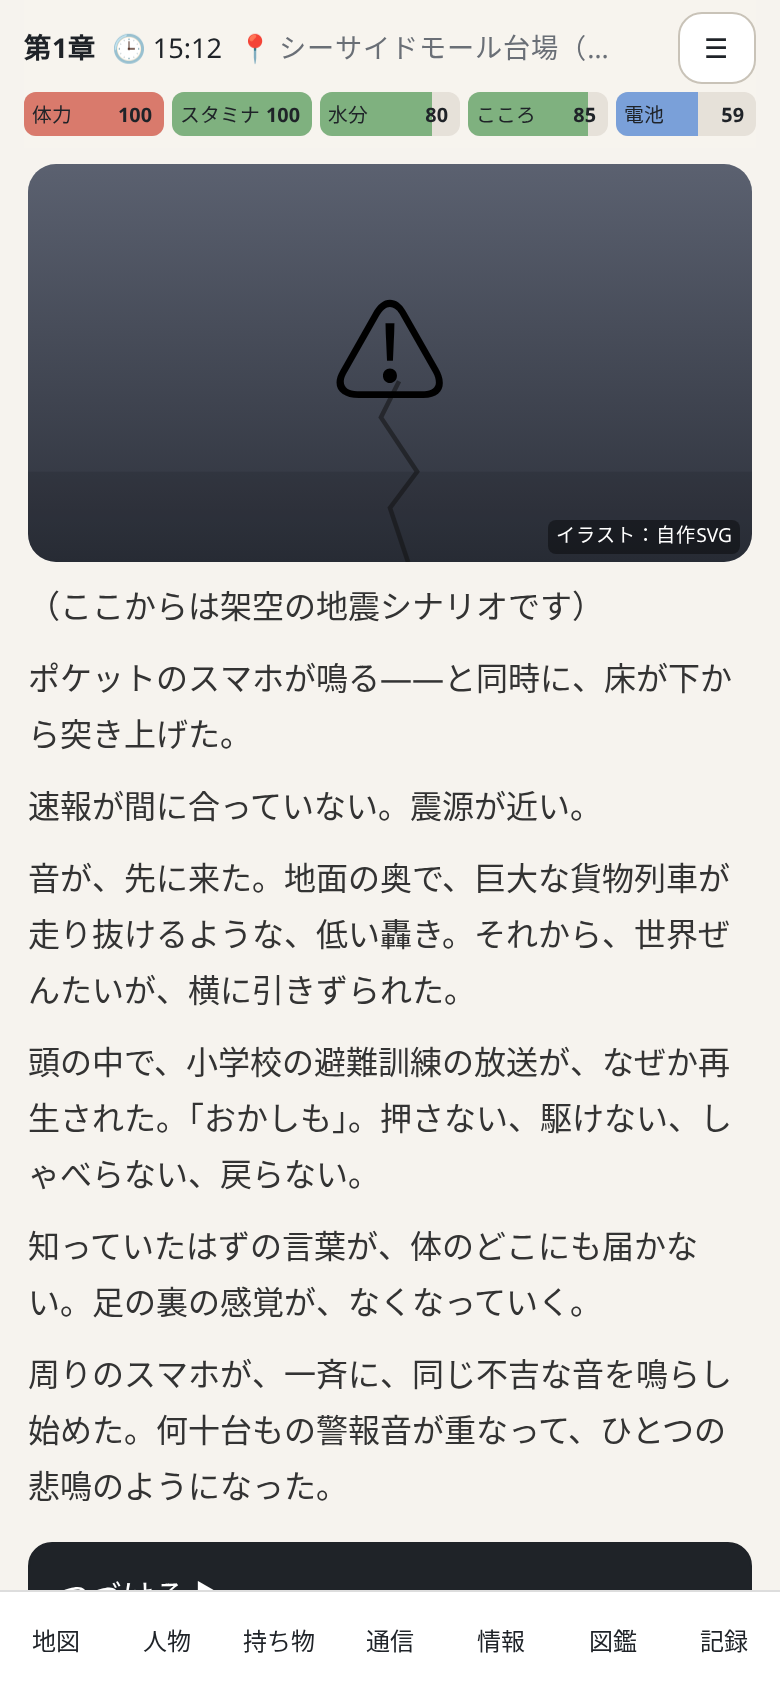
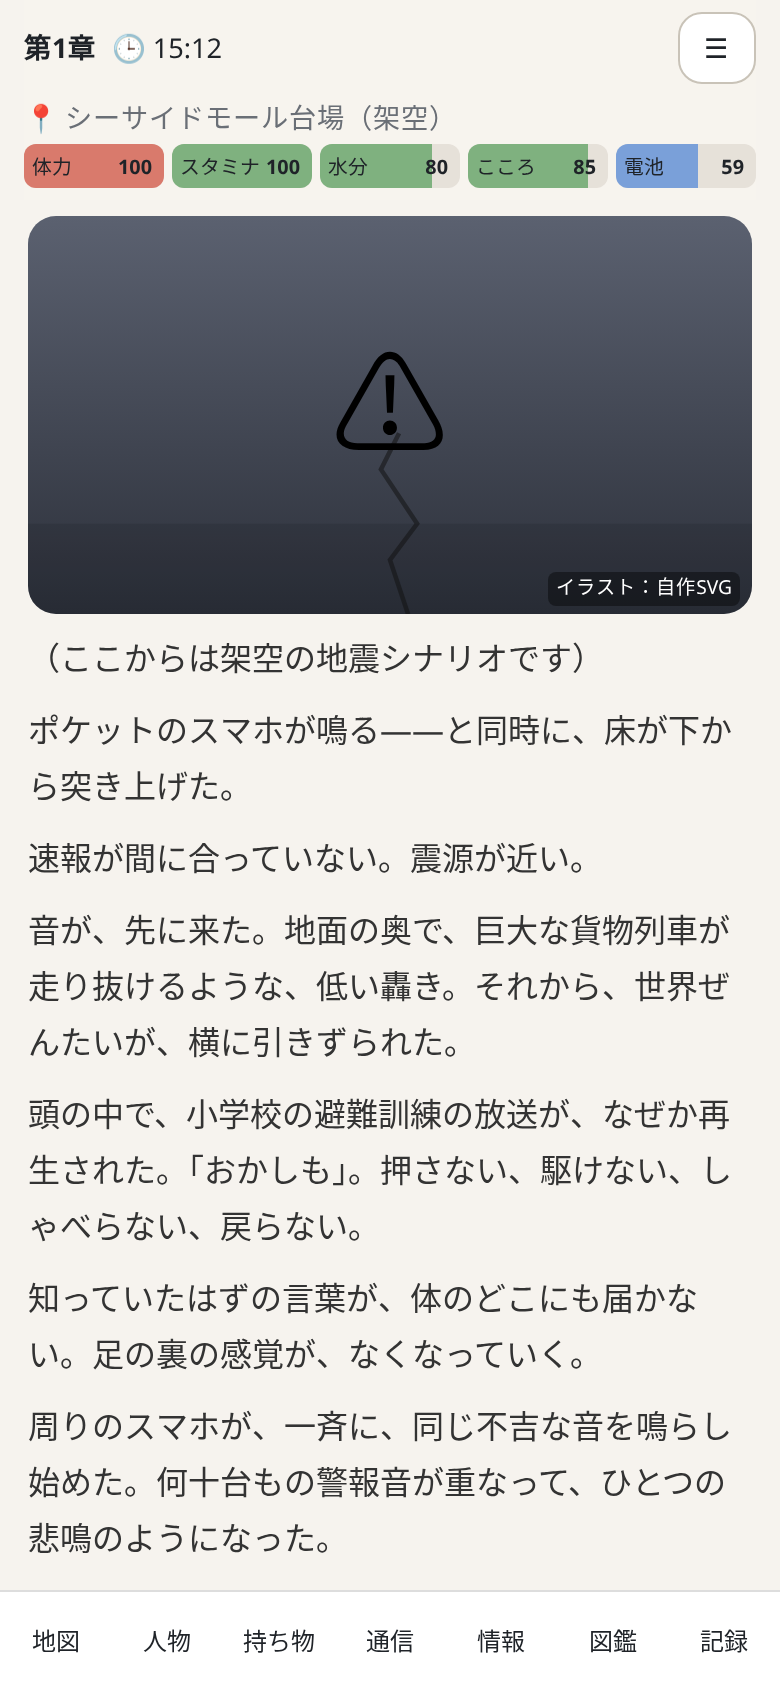
Polish: season-consistent lost-friend ending, remove wave motif on promenade, wrap place names

Changed region(s): [[0.0308, 0.0, 0.9846, 0.955], [0.7692, 0.4005, 0.9231, 0.4621]]

diff --git a/src/data/misc.ts b/src/data/misc.ts
@@ -22,7 +22,7 @@ export const endings: Ending[] = [
   { id: 'e_death_helper', kind: 'death', title: 'あの日の人', if: { dead: true, anyFlag: ['helped_hiroto', 'helped_saeki', 'helped_haruno', 'helped_morimoto'], notFlag: 'msg_fam1' }, text: ['あなたが助けた人は、生きている。', 'その人の人生の中に、あなたは残り続ける。', '名前を知らないまま別れた人もいた。それでも、その人は、あの日のことを話すとき、必ずあなたの話をする。', '「あの人が、止まってくれたから」。', 'あなたが帰れなかったことと、あなたが誰かを帰したことは、どちらも、同じ一日の本当のことだ。', 'どちらかだけを語ることは、誰にもできない。'] },
   { id: 'e_death', kind: 'death', title: '帰れなかった日', if: { dead: true }, text: ['あなたは、帰れなかった。', 'その原因は、運だけではなかった。いくつかの判断と、準備と、時間が重なった結果だった。', 'あの角を曲がらなければ。あと一本、水を持っていれば。あと少し、待っていれば。', '「もしも」は、いくつでも数えられる。けれど、それを数えるのは、責めるためではない。', '次の誰かが、同じ角で、別の道を選べるように。', 'この物語は、そのためにある。'] },
   { id: 'e_volunteer', kind: 'rebuild', title: 'あの日から始まった仕事', if: { flag: 'volunteer', npcAlive: 'friend' }, text: ['救護所で過ごした一夜が、あなたの何かを変えた。', '半年後、あなたは地域の防災訓練で、記録係の腕章をつけていた。', '名簿の書き方。けが人の伝え方。「大丈夫ですか」の、その先に何を聞くか。', 'あの夜、何も知らずに手を動かしたことを、今は、少しだけ知って、手を動かしている。', '拓海から、大阪の防災士講座の修了証の写真が届いた。「お前もやれよ」。', 'やるよ、と返した。もう、始めているけれど。'] },
-  { id: 'e_lost_friend', kind: 'loss', title: '隣にいない夏', if: { npcDead: 'friend' }, text: ['生き残ったことは、喜びだけではなかった。', '拓海のいない夏が来る。あなたはそれでも、海辺の写真を消せない。', '写真の中の拓海は、いつも少しだけピントが合っていない。あの日、撮り直そうと言ったのに、拓海が「いいよ、これで」と笑ったから。', '「一人で行くな」と、言えなかった。その一言の重さを、あなたは一生、運んでいく。', 'でも、それと同じだけ、拓海が手を伸ばした先の人が、今日も生きているということも、運んでいく。', '夏の終わり、あなたは一人で海辺に行き、写真と同じ場所で、同じ海を撮った。今度は、ピントが合っていた。'] },
+  { id: 'e_lost_friend', kind: 'loss', title: '隣にいない季節', if: { npcDead: 'friend' }, text: ['生き残ったことは、喜びだけではなかった。', '拓海のいない冬が来る。あなたはそれでも、連絡先の「拓海」の名前を消せない。', '画面の中の名前は、いつもと同じ顔をしている。押せば、また「おう、どうした」と返ってきそうな気がする。', '「一人で行くな」と、言えなかった。その一言の重さを、あなたは一生、運んでいく。', 'でも、それと同じだけ、拓海が手を伸ばした先の人が、今日も生きているということも、運んでいく。', '次の夏、あなたは一人でお台場の海辺に行き、あの日と同じ場所に、しばらく立っていた。海は何も言わなかった。それでも、来てよかったと思った。'] },
   { id: 'e_lost_grandma', kind: 'loss', title: '羊羹の約束', if: { npcDead: 'fam2' }, text: ['週末、寄るはずだった。', '箪笥の固定。あの日の電話の一言。小さなことが、大きなことだった。', '祖母の家は、秋に取り壊された。最後に、台所のいちばん上の棚を、蓮が拭いた。', '羊羹の包装紙は、手帳に挟んである。鉛筆の「あおい」の字は、少しずつ薄くなっていく。', '薄くなっていくことを、止めようとは思わない。代わりに、自分の部屋の本棚を、壁に留めた。', '祖母がいたら、きっと「大げさねえ」と言っただろう。その声が、今も、聞こえる。'] },
   { id: 'e_meet', kind: 'survive', title: '決めておいた場所', if: { flag: ['meetpoint', 'reunited_family'] }, text: ['決めておいた場所で、家族はあなたを待っていた。', '「もしも」の話を一度しておくこと。それが、あの日いちばん役に立った。', '電話もメッセージも通じない中で、家族は、ただその一言を信じて、そこへ向かった。', 'あなたが着いたとき、家族は、約束の場所の、約束の目印の下に立っていた。', '次の休みの夜、家族で、もう一度「もしも」の話をした。今度は、会えなかった場合の、その次まで。', '冷蔵庫の紙は、少しだけ、長くなった。'] },
   { id: 'e_partner', kind: 'survive', title: '港南口で', if: { flag: 'reunited_partner' }, text: ['約束の場所で、二人はもう一度会えた。', '次は「会えなかったらどうするか」まで、決めておこうと話した。', '港南口の、柱の前。あの日、二人とも、相手は来ないかもしれないと思いながら、そこに立っていた。', '来ないかもしれないと思いながら待つことが、どれほど怖いか。来てくれたことが、どれほど。', '二人の新しい部屋の冷蔵庫には、集合場所が、三つ書いてある。一つ目がだめなら、二つ目。二つ目がだめなら、三つ目。', '三つ目の下に、蓮が小さく書き足した。「それでもだめなら、明るくなってから、迎えに行く」。'] },

diff --git a/src/style.css b/src/style.css
@@ -14,7 +14,7 @@ fieldset{border:1px solid #ddd;border-radius:12px;margin:10px 0}fieldset label{d
 .presets{display:grid;gap:8px}.preset{display:block;background:#fff;border:1px solid #ddd;border-radius:12px;padding:10px}.preset span{display:block;font-size:.85rem;color:var(--mut)}
 .hud{position:sticky;top:0;z-index:5;background:#f6f3eeee;backdrop-filter:blur(4px);padding:6px 0;margin:-12px -2px 8px}
 .hud .row{display:flex;gap:8px;align-items:center;font-size:.85rem;flex-wrap:wrap}.hud .row button{margin-left:auto;min-height:36px;padding:4px 12px}
-.loc{color:var(--mut);overflow:hidden;text-overflow:ellipsis;white-space:nowrap;max-width:48vw}
+.loc{color:var(--mut);order:9;flex-basis:100%;font-size:.85rem;white-space:normal;line-height:1.3}
 .bars{display:grid;grid-template-columns:repeat(5,1fr);gap:4px;margin-top:4px}
 .bar{position:relative;height:22px;background:#e6e1d9;border-radius:6px;overflow:hidden;font-size:.62rem}
 .bar i{position:absolute;inset:0 auto 0 0;background:#7fb17f}.bar.hp i{background:#d97a6c}.bar.bat i{background:#7aa0d9}.bar.low i{background:#c0392b}

diff --git a/src/ui/art.ts b/src/ui/art.ts
@@ -3,7 +3,7 @@ type P = { sky: [string, string]; sea?: string; motif: string; city?: boolean; c
 const A: Record<string, P> = {
   morning_home: { sky: ['#fde9c9', '#f7c59f'], motif: '🏠', caption: '朝の家', city: true },
   odaiba_morning: { sky: ['#bfe3ff', '#e9f6ff'], sea: '#5aa9d6', motif: '🎡', caption: 'お台場の朝', city: true },
-  promenade: { sky: ['#a9dcff', '#e9f6ff'], sea: '#4e9cc9', motif: '🌊', caption: '海沿いの遊歩道' },
+  promenade: { sky: ['#a9dcff', '#e9f6ff'], sea: '#4e9cc9', motif: '🐚', caption: '海沿いの遊歩道' },
   mall_food: { sky: ['#ffe7c2', '#fff4e3'], motif: '🍜', caption: 'フードコート' },
   family_call: { sky: ['#ffe0e9', '#fff3f6'], motif: '📱', caption: 'ビデオ通話' },
   shop: { sky: ['#e6f0ff', '#f6f9ff'], motif: '🛍', caption: 'モール' },

diff --git a/docs/ENDINGS.md b/docs/ENDINGS.md
@@ -9,7 +9,7 @@
 | e_death_helper | death | あの日の人 | `{"dead":true,"anyFlag":["helped_hiroto","helped_saeki","helped_haruno","helped_morimoto"],"notFlag":"msg_fam1"}` |
 | e_death | death | 帰れなかった日 | `{"dead":true}` |
 | e_volunteer | rebuild | あの日から始まった仕事 | `{"flag":"volunteer","npcAlive":"friend"}` |
-| e_lost_friend | loss | 隣にいない夏 | `{"npcDead":"friend"}` |
+| e_lost_friend | loss | 隣にいない季節 | `{"npcDead":"friend"}` |
 | e_lost_grandma | loss | 羊羹の約束 | `{"npcDead":"fam2"}` |
 | e_meet | survive | 決めておいた場所 | `{"flag":["meetpoint","reunited_family"]}` |
 | e_partner | survive | 港南口で | `{"flag":"reunited_partner"}` |
